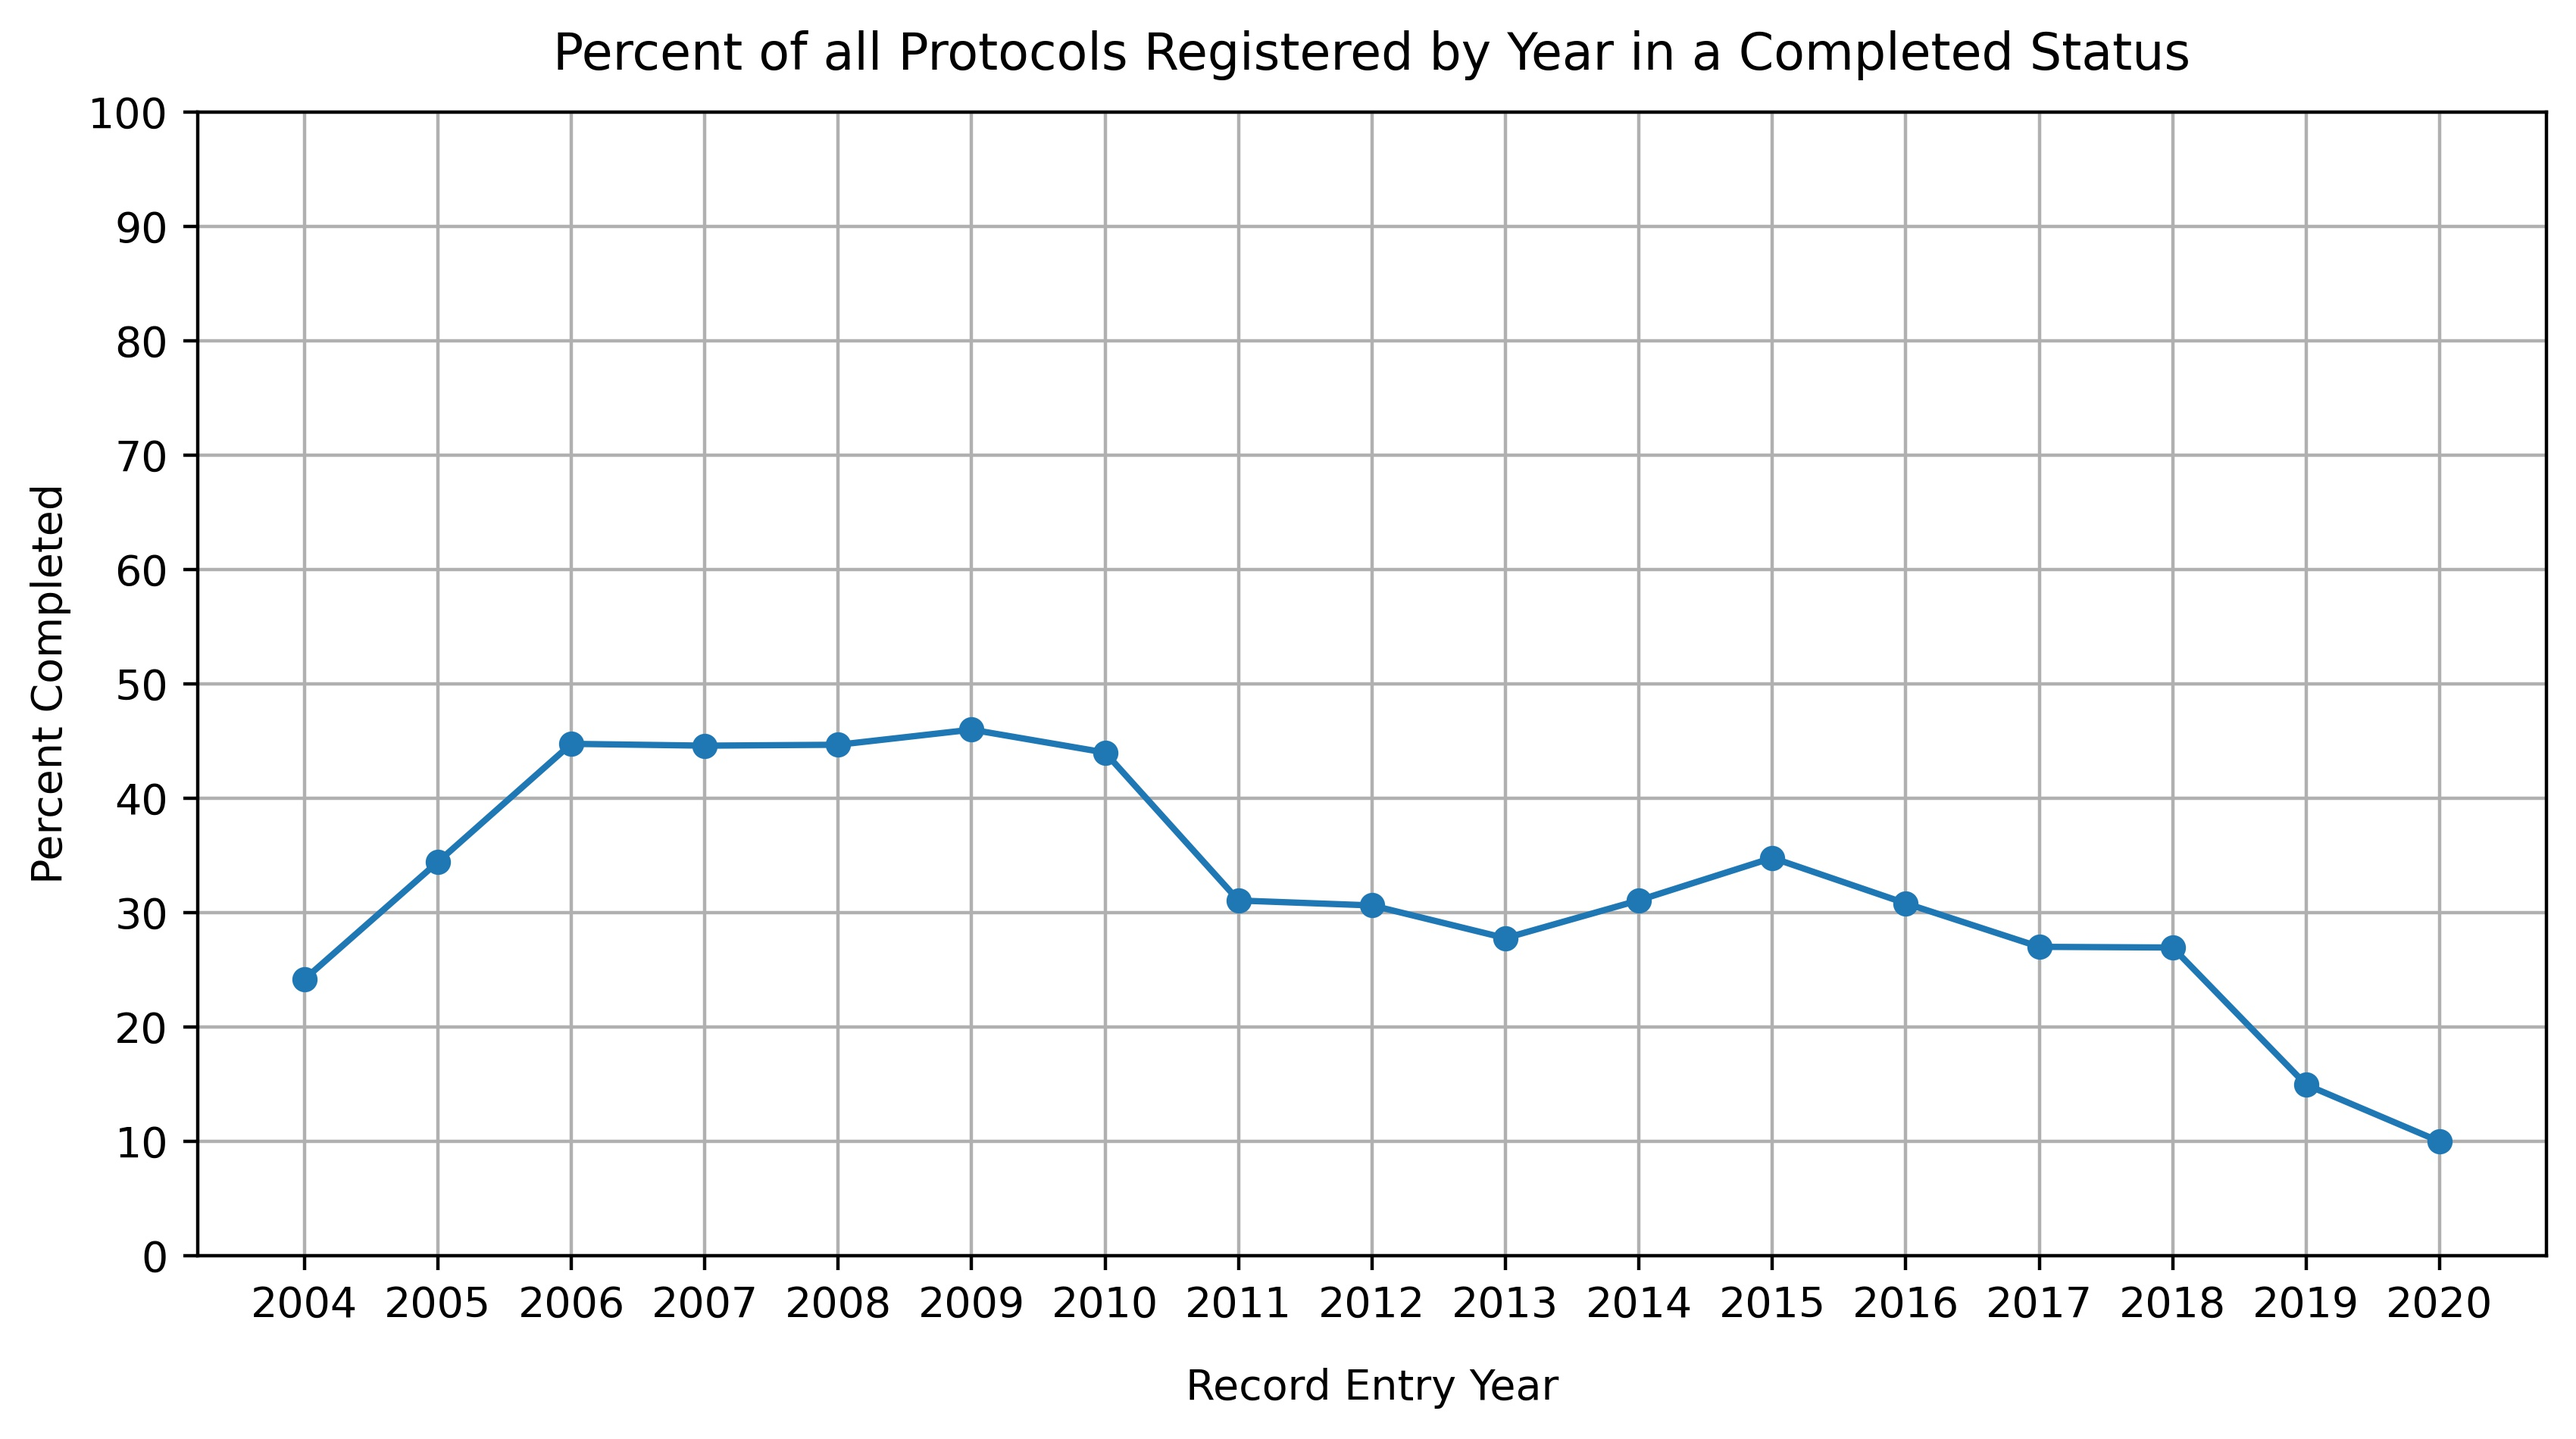
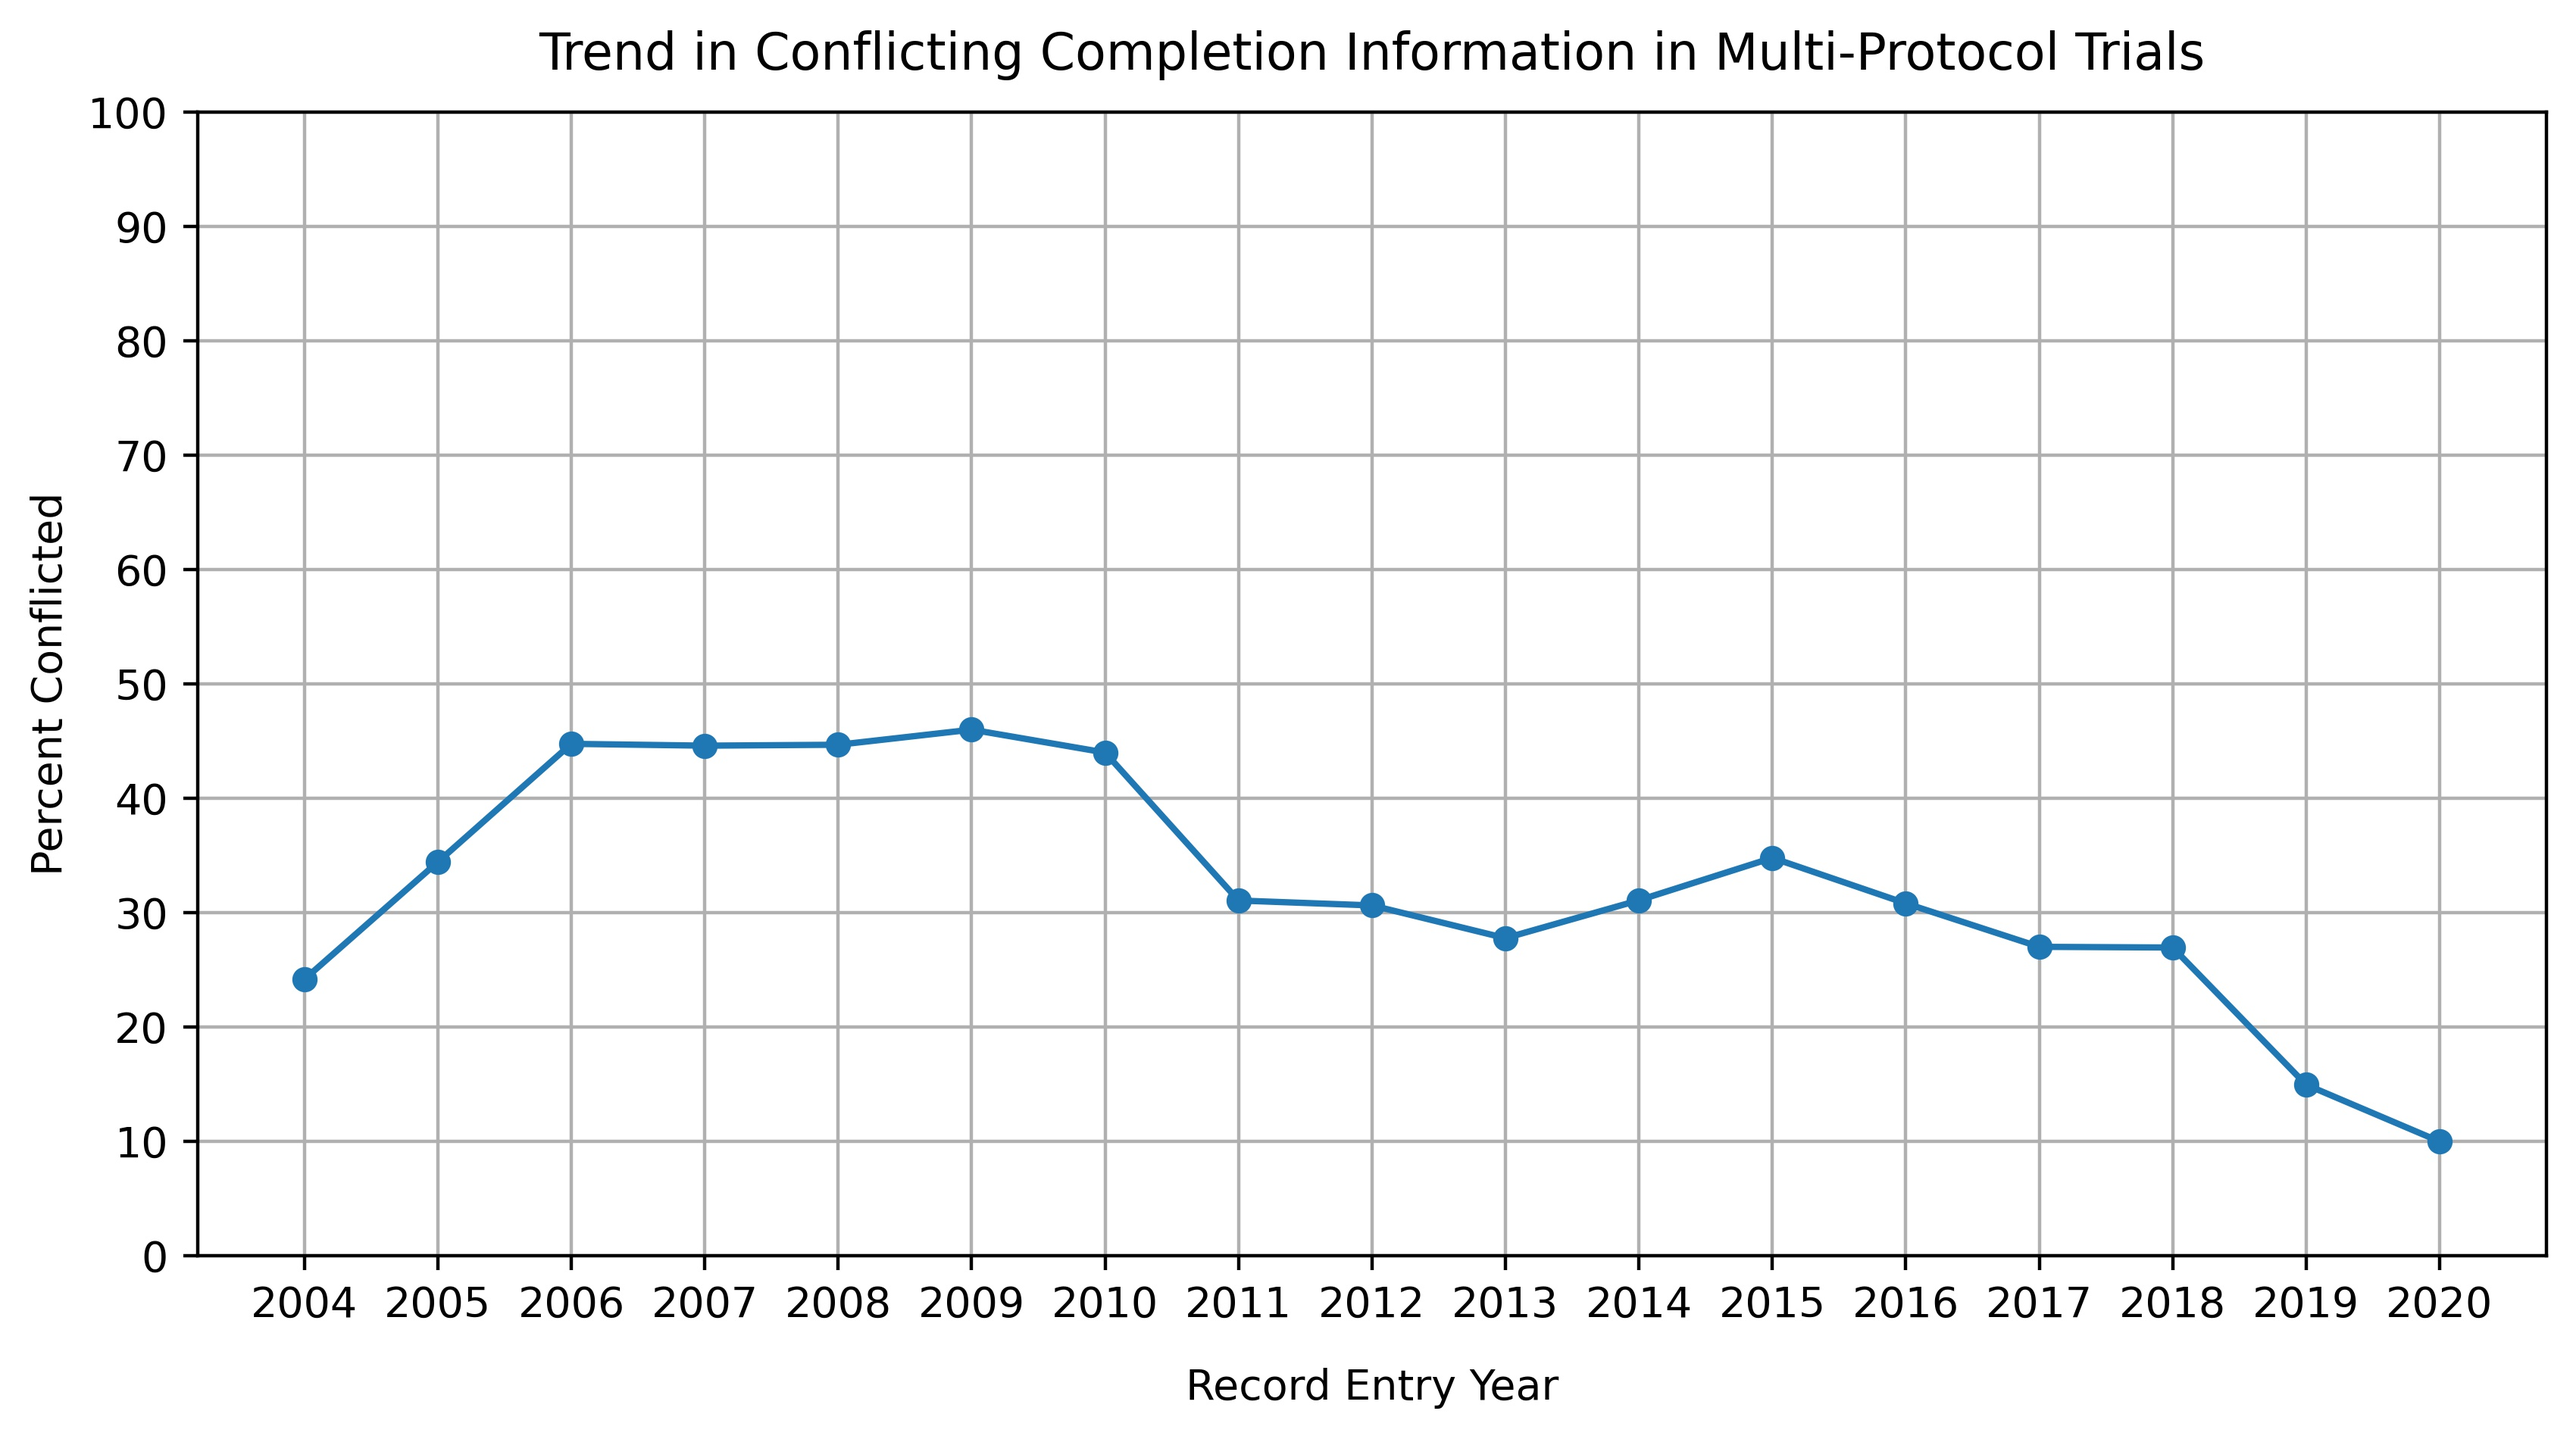
Updated Supp Fig 8
Fixes the labels for Supplementary Figure 8 which were incorrect.

Changed region(s): [[0.2182, 0.0, 0.8729, 0.0621], [0.0, 0.3416, 0.0312, 0.6211]]

diff --git a/notebooks/diffable_python/Completion Trends.py b/notebooks/diffable_python/Completion Trends.py
@@ -7,11 +7,12 @@
 #       extension: .py
 #       format_name: light
 #       format_version: '1.5'
-#       jupytext_version: 1.11.2
+#       jupytext_version: 1.13.0
 #   kernelspec:
 #     display_name: Python 3
 #     language: python
 #     name: python3
+#   orig_nbformat: 4
 # ---
 
 # + trusted=true
@@ -279,8 +280,8 @@ fig, ax = plt.subplots(figsize = (10,5), dpi=400)
 plt.plot(conflict_summary.index, conflict_summary['prct'], marker='.', markersize=10)
 plt.grid()
 plt.xlabel('Record Entry Year', labelpad=10)
-plt.ylabel('Percent Completed')
-plt.title('Percent of all Protocols Registered by Year in a Completed Status', pad=10)
+plt.ylabel('Percent Conflicted')
+plt.title('Trend in Conflicting Completion Information in Multi-Protocol Trials', pad=10)
 
 ax.set_yticks(range(0, 101,10))
 ax.set_xticks(range(2004,2021))
@@ -531,6 +532,6 @@ consistant_dates = has_dates.completion_date['nunique'] == 1
 
 # + trusted=true
 print(f'{round((len(has_dates[all_have_dates & consistant_dates])/len(has_dates)) * 100,2)}% of all trials with multiple protocols and at least one completion date are consistent across all protocols')
-# +
+# -
 
 
